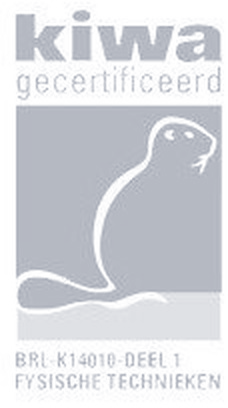
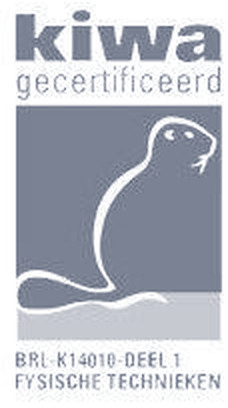
Keurmerken licht en zonder kader in de hero
De lichte chip is vervallen. De keurmerken staan nu vrij in de hoek, in een
echte omkering: dekking volgt de donkerte van het origineel, zodat de
uitgespaarde figuur in het Kiwa-merk donker blijft tegen het lichte vlak.

De bronafbeelding had weinig contrast, donkerste waarde 149 van 255. Dekking
uitgerekt naar het volledige bereik. Verder een zachte verduistering rechtsonder
in de hero, zodat de merken op elk beeld van de video leesbaar blijven, en de
echte afmetingen op de afbeeldingen zodat de verhouding vóór het laden klopt.

Claude-Session: https://claude.ai/code/session_015bR6SLJzHVB3Zpj9XDW4No

diff --git a/src/components/Certifications.tsx b/src/components/Certifications.tsx
@@ -1,16 +1,20 @@
 import Image from "next/image";
 
+/** Echte afmetingen van de bestanden, zodat de verhouding ook vóór het laden klopt. */
 const marks = [
-  { src: "keurmerk-kiwa", alt: "Kiwa gecertificeerd, BRL-K14010 deel 1", h: 42 },
-  { src: "keurmerk-ce", alt: "CE-markering", h: 25 },
-  { src: "keurmerk-nen-en-1112", alt: "NEN-EN 1112, CE Medical klasse 2A", h: 29 },
+  { src: "keurmerk-kiwa", alt: "Kiwa gecertificeerd, BRL-K14010 deel 1", w: 228, h: 408, size: 42 },
+  { src: "keurmerk-ce", alt: "CE-markering", w: 314, h: 238, size: 25 },
+  { src: "keurmerk-nen-en-1112", alt: "NEN-EN 1112, CE Medical klasse 2A", w: 388, h: 268, size: 29 },
 ];
 
 /**
- * De keurmerken van de bestaande site. Het Kiwa-merk heeft een grijs vlak met
- * een uitgespaarde figuur, dus omkleuren naar wit maakt het onleesbaar. Op een
- * donkere ondergrond staan de merken daarom in een lichte chip, met het
- * originele artwork; op een lichte ondergrond staan ze los.
+ * De keurmerken van de bestaande site, in twee tinten.
+ *
+ * Het Kiwa-merk is een grijs vlak met een uitgespaarde figuur. Simpelweg wit
+ * maken laat die figuur wegvallen, dus de lichte versie is een echte omkering:
+ * de dekking volgt de donkerte van het origineel. Tekst wordt daarmee wit, het
+ * vlak lichtgrijs en de figuur transparant, dus donker tegen dat lichte vlak.
+ * De dekking is uitgerekt omdat de bronafbeelding weinig contrast had.
  */
 export default function Certifications({
   variant = "dark",
@@ -21,31 +25,21 @@ export default function Certifications({
   scale?: number;
   className?: string;
 }) {
-  const row = (
-    <div className="flex items-center gap-7 max-sm:gap-5">
+  const tint = variant === "dark" ? "licht" : "donker";
+  return (
+    <div className={`flex items-center gap-8 max-sm:gap-6 ${className}`}>
       {marks.map((m) => (
         <Image
           key={m.src}
-          src={`/images/fotos/${m.src}-donker.png`}
+          src={`/images/fotos/${m.src}-${tint}.png`}
           alt={m.alt}
-          width={400}
-          height={400}
+          width={m.w}
+          height={m.h}
+          sizes="120px"
           className="w-auto"
-          style={{ height: m.h * scale }}
+          style={{ height: m.size * scale }}
         />
       ))}
-    </div>
-  );
-
-  if (variant === "light") {
-    return <div className={className}>{row}</div>;
-  }
-
-  return (
-    <div
-      className={`inline-flex items-center rounded-[18px] border border-white/20 bg-white/90 px-6 py-3.5 backdrop-blur-sm max-sm:px-4 max-sm:py-3 ${className}`}
-    >
-      {row}
     </div>
   );
 }

diff --git a/src/components/HeroVideo.tsx b/src/components/HeroVideo.tsx
@@ -50,6 +50,15 @@ export default function HeroVideo({
       <div className="absolute inset-0 bg-neutral-800/35" />
       <div className="absolute inset-0 bg-gradient-to-r from-neutral-800 via-neutral-800/75 to-transparent" />
       <div className="absolute inset-0 bg-gradient-to-t from-neutral-800/55 to-transparent" />
+      {/* Zachte verduistering rechtsonder, zodat de keurmerken op elk beeld
+          leesbaar blijven zonder dat er een vlak omheen staat. */}
+      <div
+        className="absolute inset-0"
+        style={{
+          background:
+            "radial-gradient(60% 45% at 88% 88%, rgba(0,16,53,0.72) 0%, rgba(0,16,53,0.45) 45%, rgba(0,16,53,0) 78%)",
+        }}
+      />
     </div>
   );
 }
